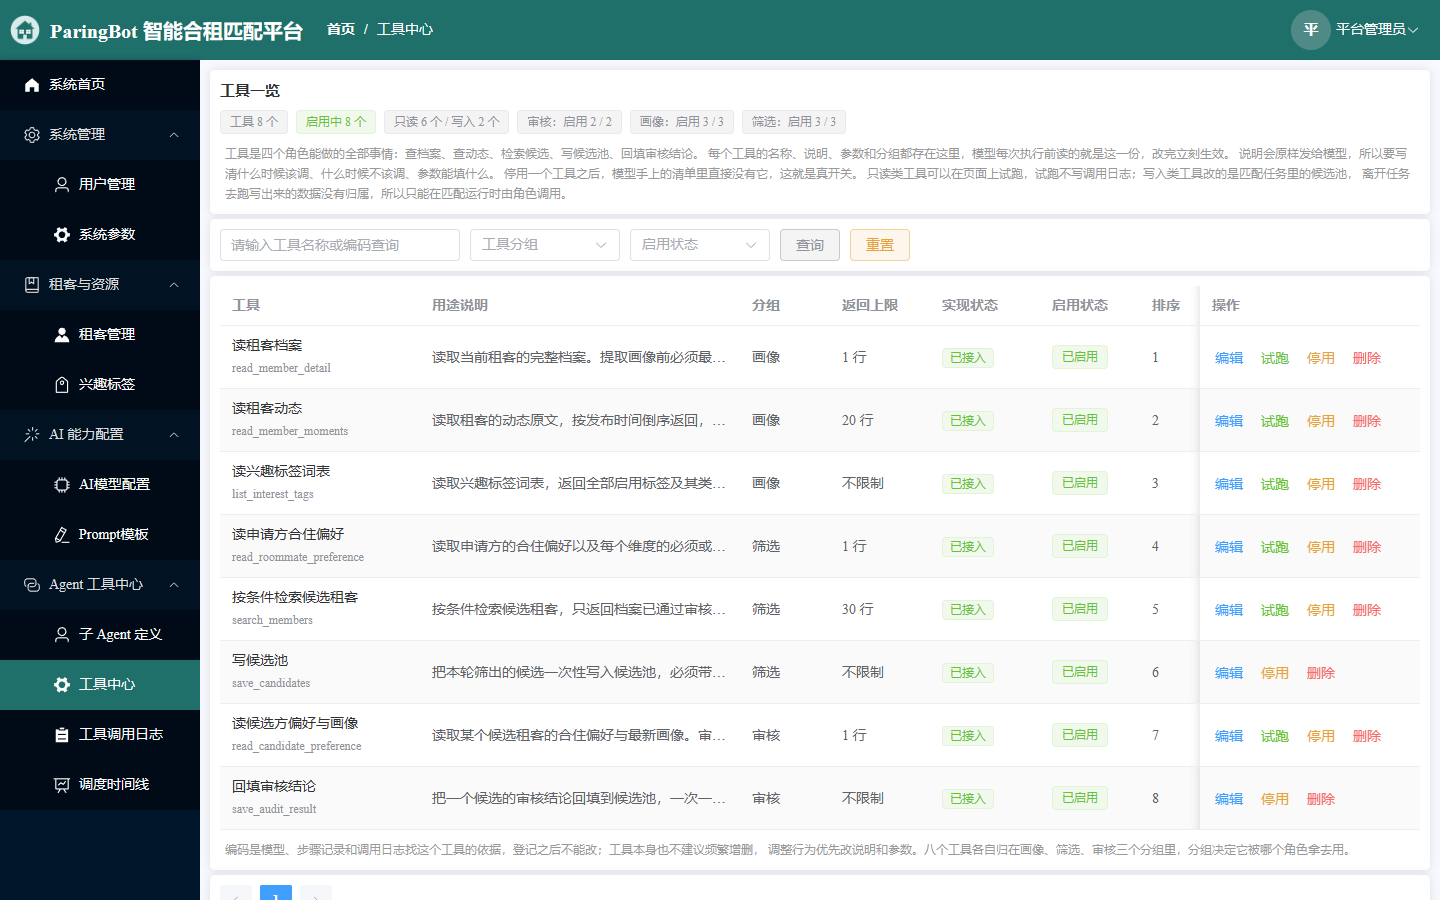
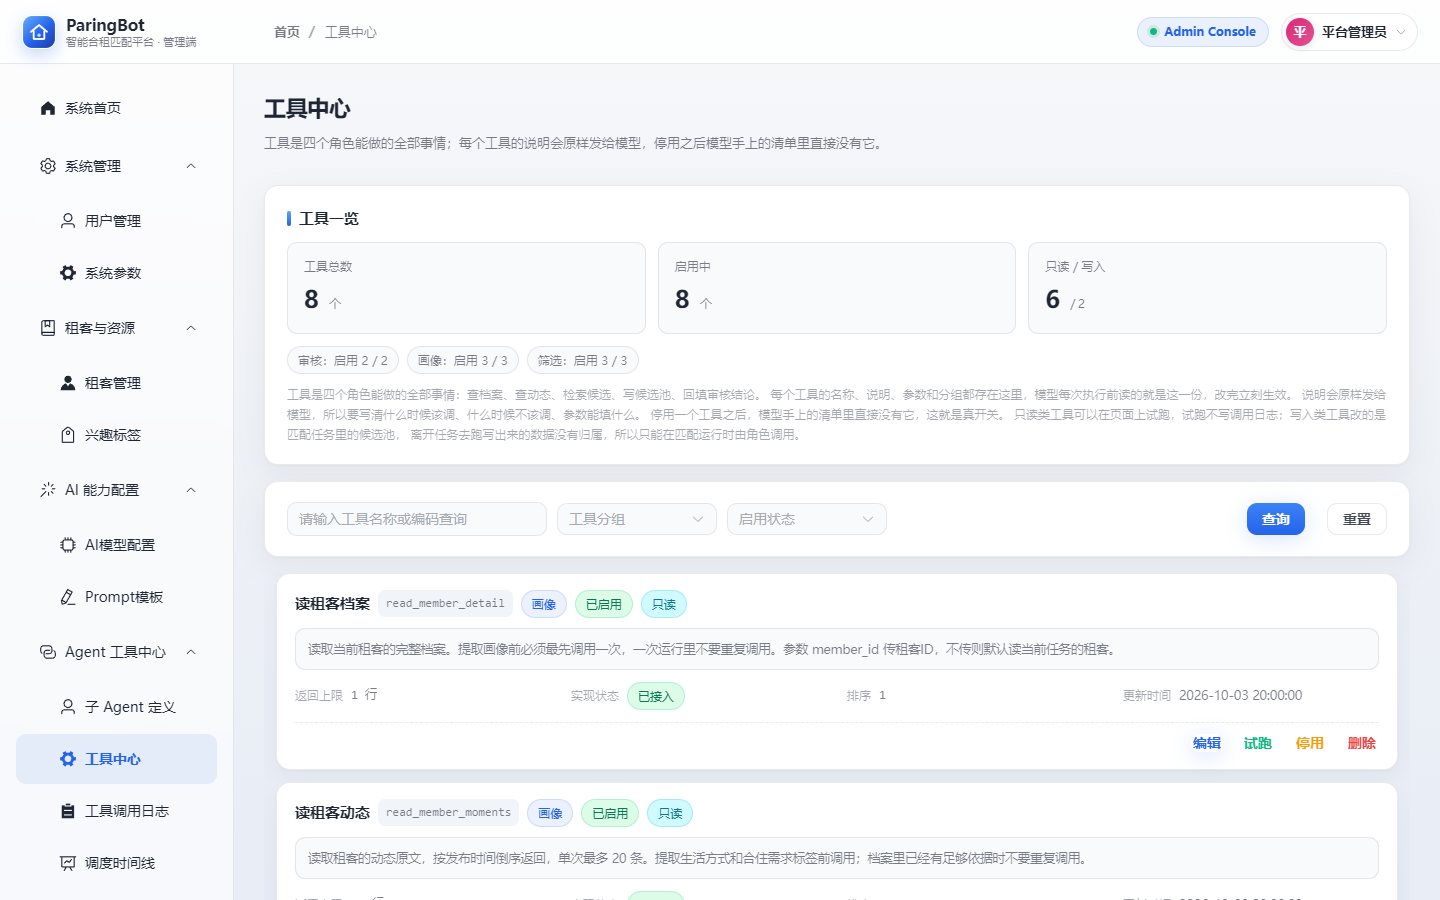
chore(demo): 演示租客更名为小宋并更新 README 截图

diff --git a/README.md b/README.md
@@ -20,12 +20,14 @@
 </p>
 
 <p align="center">
-  <img src="docs/assets/screenshots/front-match.png" alt="ParingBot 智能匹配" width="100%" />
+  <img src="docs/assets/screenshots/front-home.png" alt="ParingBot 租客工作台" width="100%" />
 </p>
 
 ---
 
 **ParingBot 是一个可运行的智能合租匹配演示平台。** 租客填好档案、七维合住偏好和动态后发起匹配，合租管家（主管）每一轮看一遍当前进展，决定把活派给画像师、筛选官还是审核官；候选不够就放宽「加分」项，画像不够就补一版画像，通过审核的人数够了就收尾交付。三个角色之间不直接对话，所有事实从库里现查，模型只负责判断，边界由代码守住。
+
+界面走浅色工作台风格（浅灰渐变底、白色细边框卡片、蓝色强调、药丸标签），设计 token 集中在 `frontend/src/assets/css/global.css`，管理端与租客端共用同一套视觉语言；视觉风格参考了作者的 NewsClaw 项目。
 
 在线演示：本地 Docker 一键起，见[快速开始](#快速开始) · 设计文档：[docs/architecture.md](docs/architecture.md) · 运维手册：[docs/operations.md](docs/operations.md)
 
@@ -38,7 +40,7 @@
 租客填 17 项档案（性别、生日、预算、整洁度、租期、门店、作息、宠物、吸烟、自我介绍、室友期望、生活照等），管理员审核通过后才会进入候选池；七维合住偏好逐项标「必须 / 加分」，其中「必须」维度任何情况下都不放宽。动态是画像师的证据来源。
 
 <p align="center">
-  <img src="docs/assets/screenshots/front-home.png" alt="租客端首页" width="100%" />
+  <img src="docs/assets/screenshots/front-profile.png" alt="租客档案" width="100%" />
 </p>
 
 **② 发起匹配：先过 11 项前置检查**
@@ -201,4 +203,4 @@ docker compose build web
 
 ## 截图
 
-全部页面截图在 [`docs/assets/screenshots/`](docs/assets/screenshots/)：登录、租客端首页/智能匹配/审核结果/画像结果、管理端调度时间线/工具中心，均由本机 Docker Compose 栈（1440×900）实时截取。
+全部页面截图在 [`docs/assets/screenshots/`](docs/assets/screenshots/)：登录、租客端首页/档案/智能匹配/候选结果/审核结果/画像结果、管理端首页/调度时间线/工具中心/用户管理，均由本机 Docker Compose 栈（1440×900）实时截取；前端视觉规范见 [`docs/frontend-style.md`](docs/frontend-style.md)。
